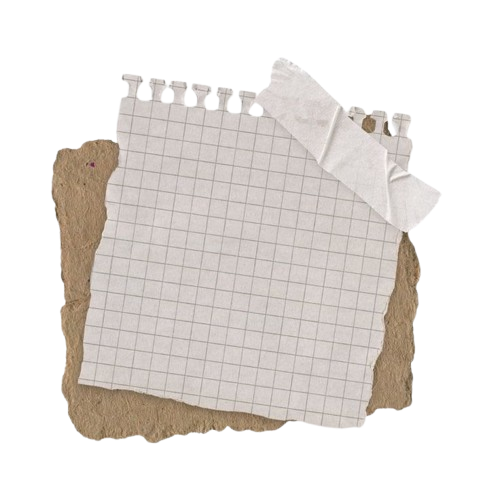
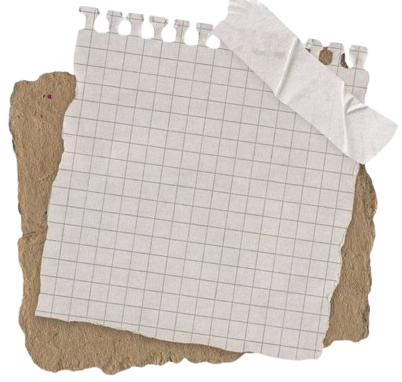
planification

diff --git a/style.css b/style.css
@@ -59,11 +59,11 @@ header {
     display: flex;
     flex-direction: column;
     align-items: center;
-    width: 450px;
-    height: 400px;
+    width: 400px;
+    height: 380px;
     position: relative;
     left: 5%;
-    bottom: 75px;
+    bottom:50px;
     z-index: 0;
 }
 .destination h2 {
@@ -120,9 +120,15 @@ header {
     width: 30%;
     height: 90%;
 }
-.lieux {
-    background-image: url(./images/paper.png);
-    background-size: cover;
+.paper {
+   background-image: url(./images/paper.png);
+    background-size: cover; 
+}
+.paper-2{
+   background-image: url(./images/paper-2.png);
+    background-size: cover; 
+}
+.lieux { 
     width: 45%;
     height: 95%;
     display: flex;
@@ -134,7 +140,42 @@ header {
 .lieux h3 {
     font-size: 32px;
 }
-.lieux li {
+.lieux li, p {
     font-family: "Marcelle";
     font-size: 24px;
+}
+.exigeances {
+    padding: 15px;
+    width: 50%;
+    height: 50%;
+    display: flex;
+    flex-direction: column;
+    align-items: center;
+    justify-content: center;
+}
+.exigeances p {
+    width: 80%;
+}
+.planification {
+    display: flex;
+    justify-content: space-evenly;
+    align-items: center;
+    height: 70%;
+}
+.planification h3 {
+    font-size: 45px;
+    padding: 10px;
+}
+b {color:#37780b;}
+.hebergement {
+    width: 30%;
+    height: 300px;
+    padding: 8% 20px 0 20px;
+    display: flex;
+    flex-direction: column;
+    align-items: center;
+}
+.hebergement p {
+    width: 80%;
+    text-align: center;
 }

diff --git a/carnet.html b/carnet.html
@@ -64,9 +64,19 @@
             </div>
         </div>
     </div>
-
-    <div class="carnet-1 planification">
+    <div class="carnet-1">
         <h2>Planification concrète</h2>
+        <div class="planification">
+            <div class="exigeances paper-2">
+                <h3>Exigeances</h3>
+                <p>Pour voyager au Canada, il vous faut seulement votre <b>permit valide</b> et vos assurances santé
+                    et auto.</p>
+            </div>
+            <div class="hebergement blocnote">
+                <h3>Hébergement</h3>
+                <p>L'hébergement se fera dans des campings publics et privés</p>
+            </div>
+        </div>
     </div>
     <div class="carnet-2 histoire">
         <h2>Portrait historique et culturel</h2>